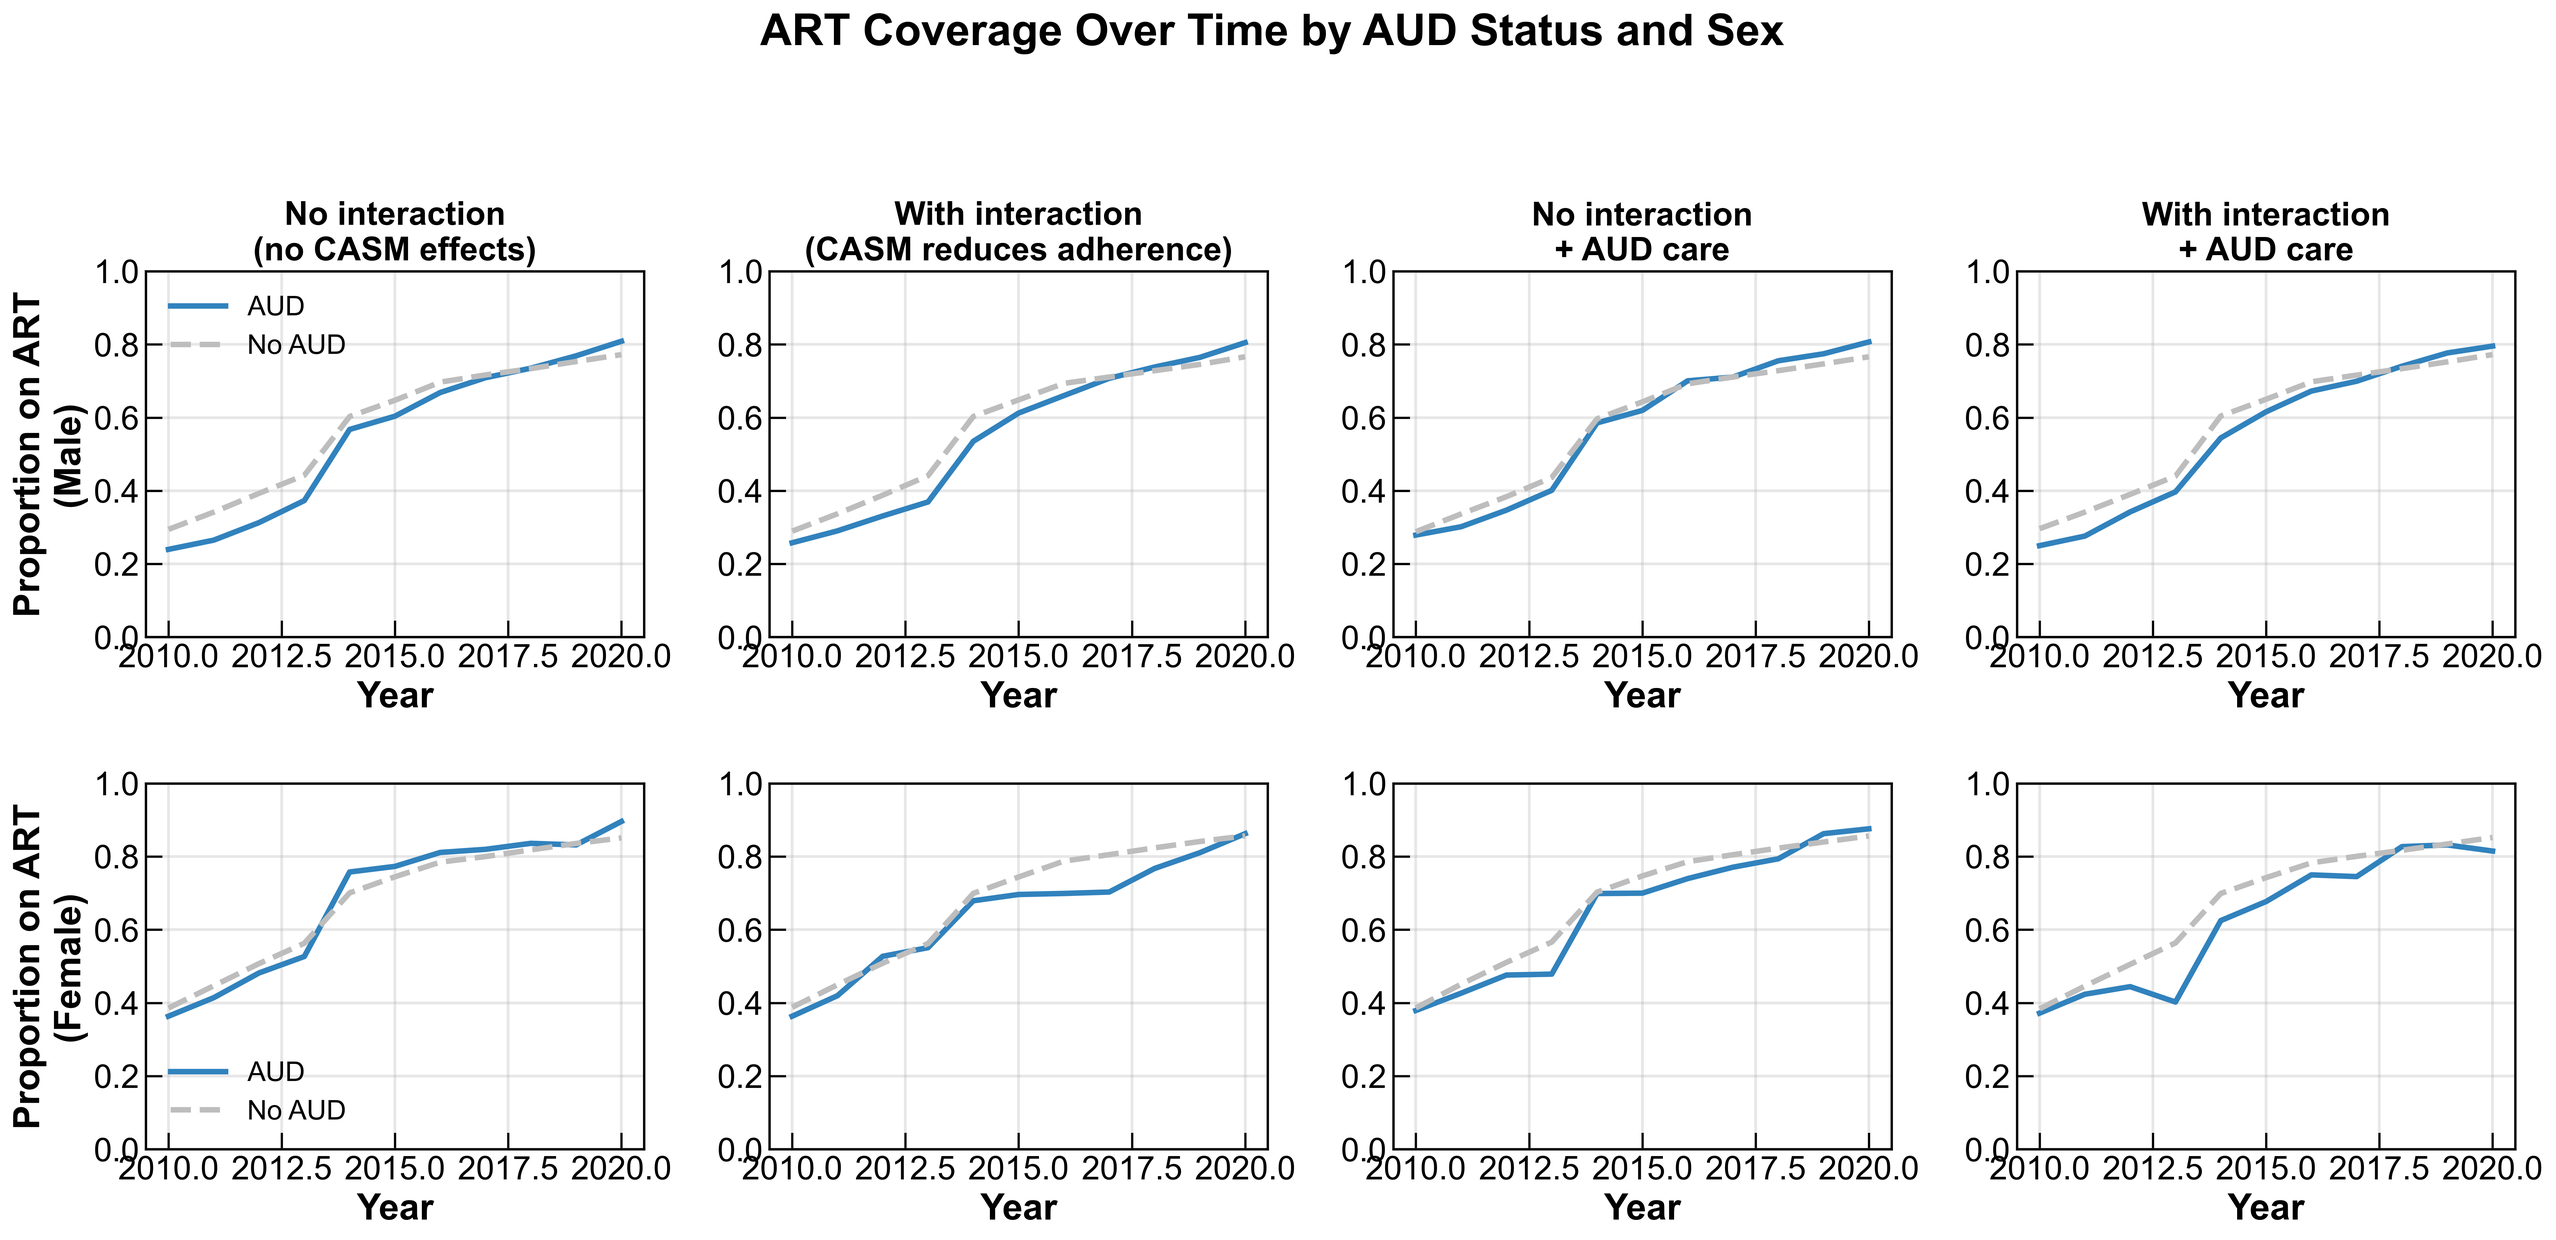
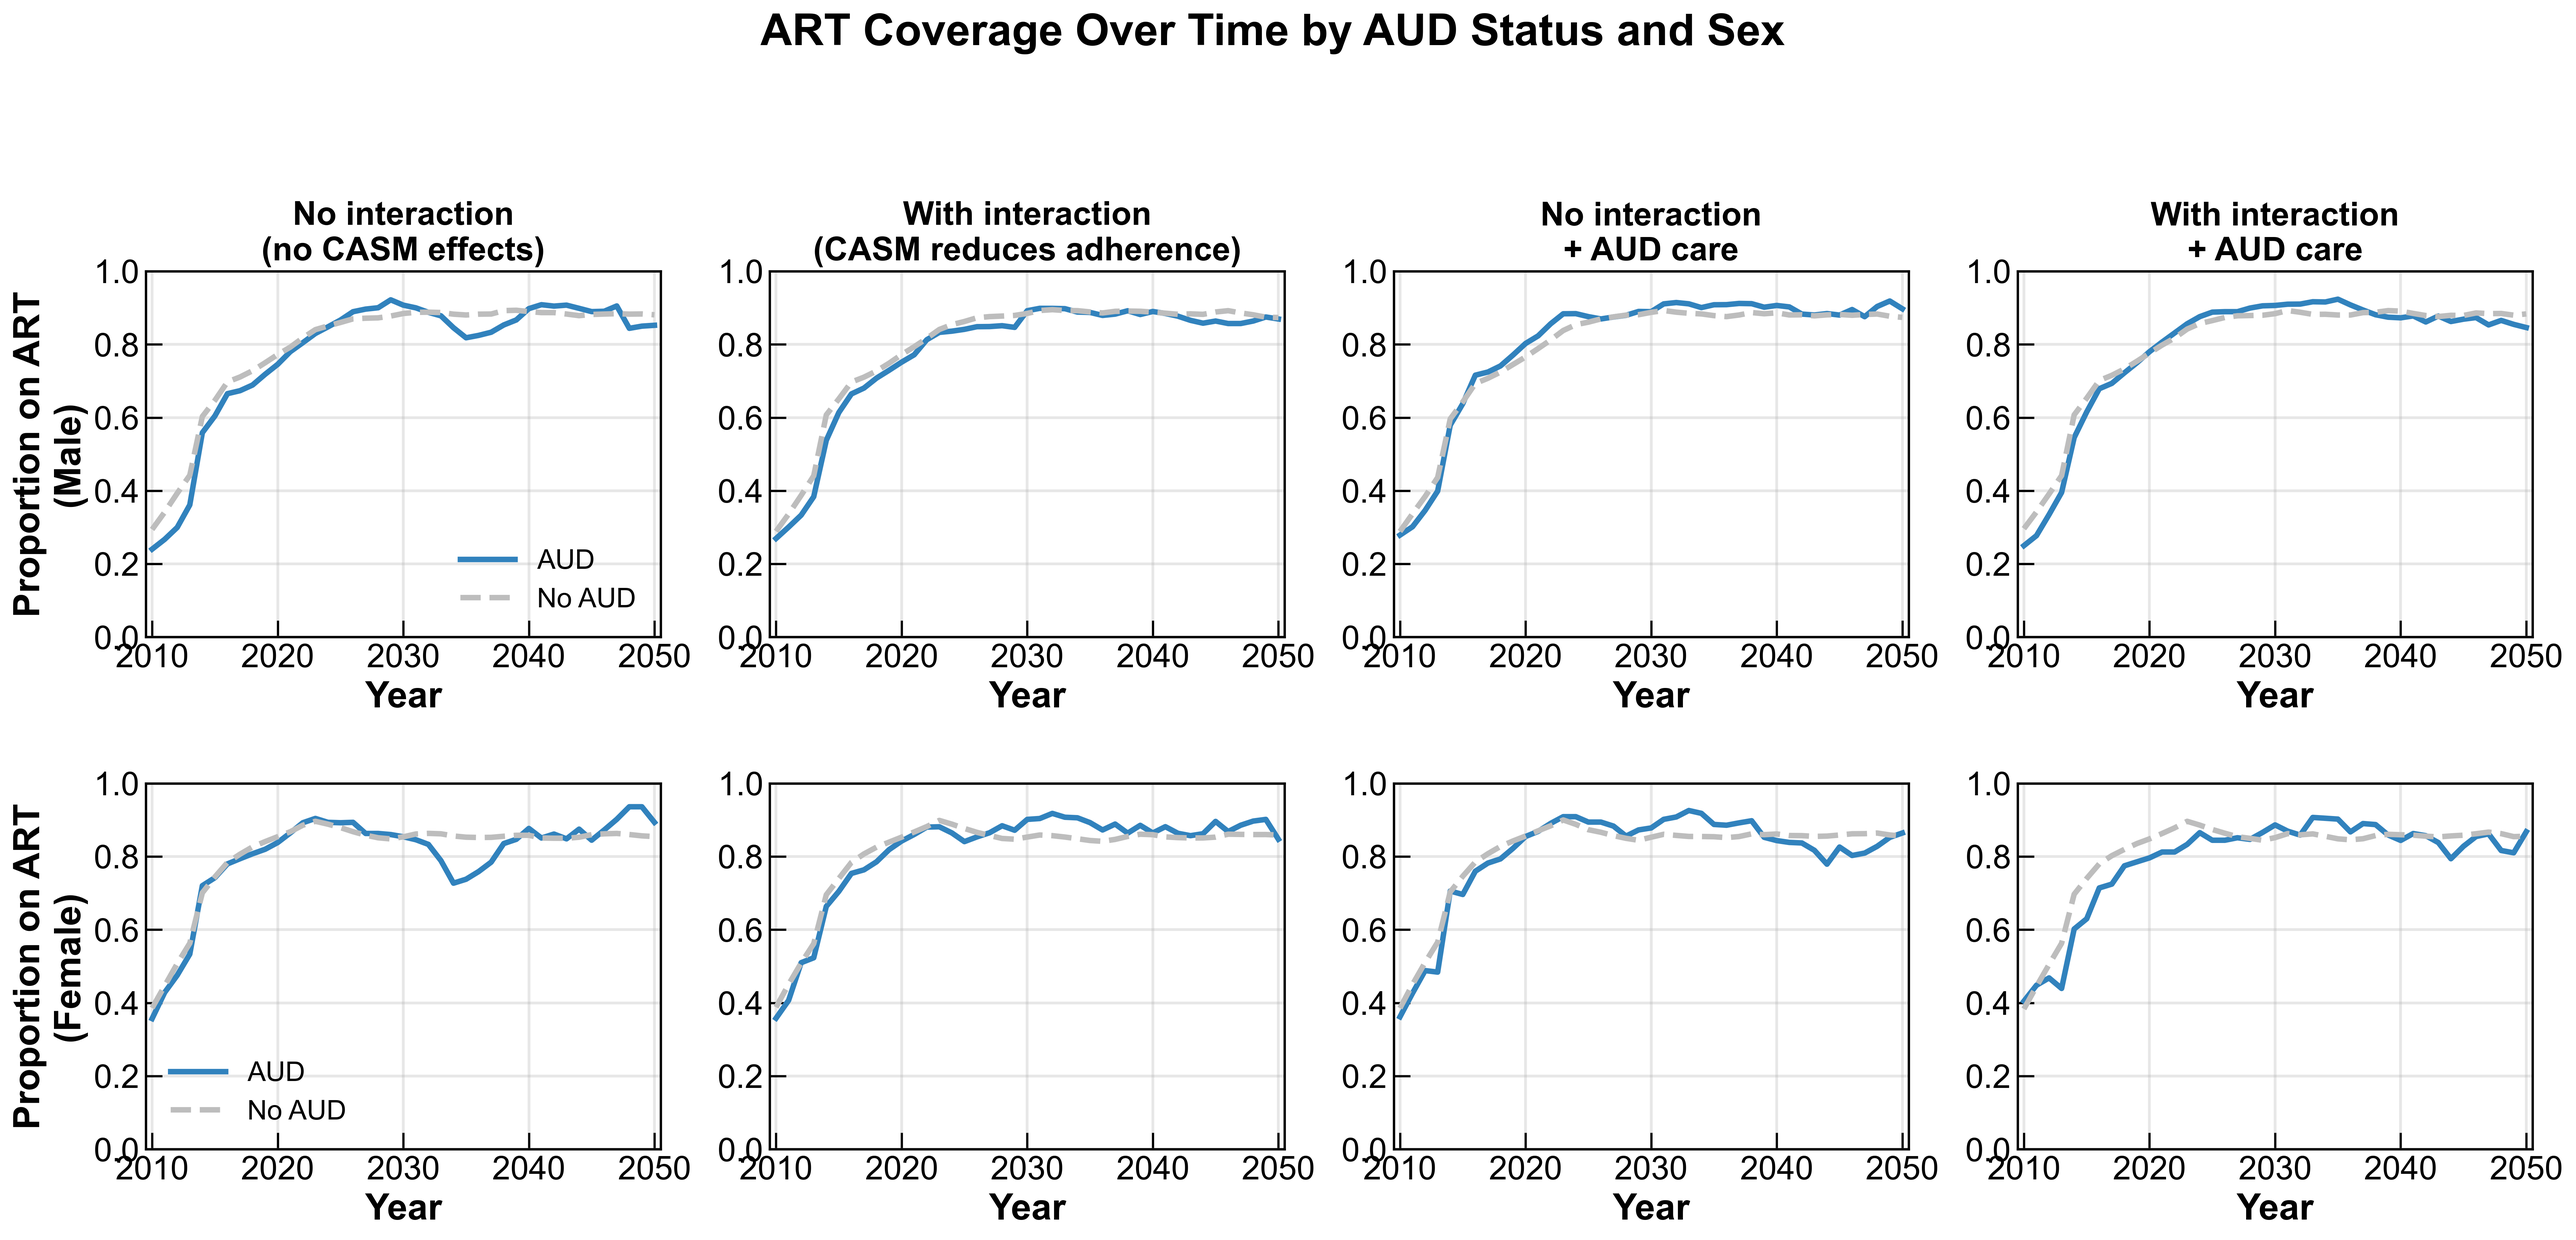
adherence wip getting better

diff --git a/mighti/temp_fig.py b/mighti/temp_fig.py
@@ -31,7 +31,7 @@ logger.setLevel(logging.INFO)
 # ---------------------------------------------------------------------
 n_agents = 100_000
 inityear = 2007
-endyear = 2020
+endyear = 2050
 region = "eswatini"
 
 # File paths
@@ -190,8 +190,8 @@ art_analyzer_by_sex = mi.OnARTByConditionAndSexAnalyzer(
 # ART and Testing Interventions
 # ---------------------------------------------------------------------
 art_coverage_data = pd.DataFrame(
-    {"p_art": [0.10, 0.34, 0.50, 0.65, 0.74, 0.85, 0.95]},
-    index=[2003, 2010, 2013, 2014, 2016, 2022, 2050],
+    {"p_art": [0.10, 0.34, 0.50, 0.65, 0.74, 0.85]},
+    index=[2003, 2010, 2013, 2014, 2016, 2022],
 )
 
 print("[DEBUG] ART coverage data:")
@@ -199,8 +199,8 @@ print(art_coverage_data)
 print(f"[DEBUG] Simulation years: {inityear} to {endyear}")
 
 hiv_test = sti.HIVTest(
-    test_prob_data=[0.10, 0.25, 0.60, 0.70, 0.80, 0.95, 0.95],
-    years=[2003, 2005, 2007, 2010, 2014, 2016, 2050],
+    test_prob_data=[0.10, 0.25, 0.60, 0.70, 0.80, 0.95],
+    years=[2003, 2005, 2007, 2010, 2014, 2016],
 )
 
 # Create ART interventions for each scenario
@@ -211,23 +211,23 @@ art4 = mi.ARTNoAutoAdjust(coverage_data=art_coverage_data, label="art4")
 
 # Create HIV test interventions for each scenario
 hiv_test1 = sti.HIVTest(
-    test_prob_data=[0.10, 0.25, 0.60, 0.70, 0.80, 0.95, 0.95],
-    years=[2003, 2005, 2007, 2010, 2014, 2016, 2050],
+    test_prob_data=[0.10, 0.25, 0.60, 0.70, 0.80, 0.95],
+    years=[2003, 2005, 2007, 2010, 2014, 2016],
     label="hiv_test1"
 )
 hiv_test2 = sti.HIVTest(
-    test_prob_data=[0.10, 0.25, 0.60, 0.70, 0.80, 0.95, 0.95],
-    years=[2003, 2005, 2007, 2010, 2014, 2016, 2050],
+    test_prob_data=[0.10, 0.25, 0.60, 0.70, 0.80, 0.95],
+    years=[2003, 2005, 2007, 2010, 2014, 2016],
     label="hiv_test2"
 )
 hiv_test3 = sti.HIVTest(
-    test_prob_data=[0.10, 0.25, 0.60, 0.70, 0.80, 0.95, 0.95],
-    years=[2003, 2005, 2007, 2010, 2014, 2016, 2050],
+    test_prob_data=[0.10, 0.25, 0.60, 0.70, 0.80, 0.95],
+    years=[2003, 2005, 2007, 2010, 2014, 2016],
     label="hiv_test3"
 )
 hiv_test4 = sti.HIVTest(
-    test_prob_data=[0.10, 0.25, 0.60, 0.70, 0.80, 0.95, 0.95],
-    years=[2003, 2005, 2007, 2010, 2014, 2016, 2050],
+    test_prob_data=[0.10, 0.25, 0.60, 0.70, 0.80, 0.95],
+    years=[2003, 2005, 2007, 2010, 2014, 2016],
     label="hiv_test4"
 )
 
